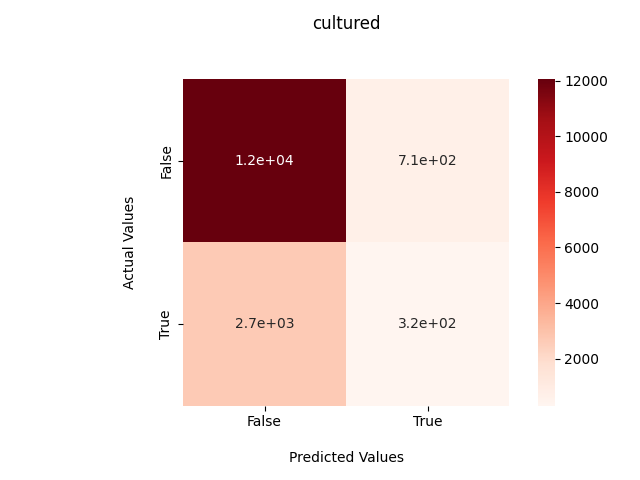
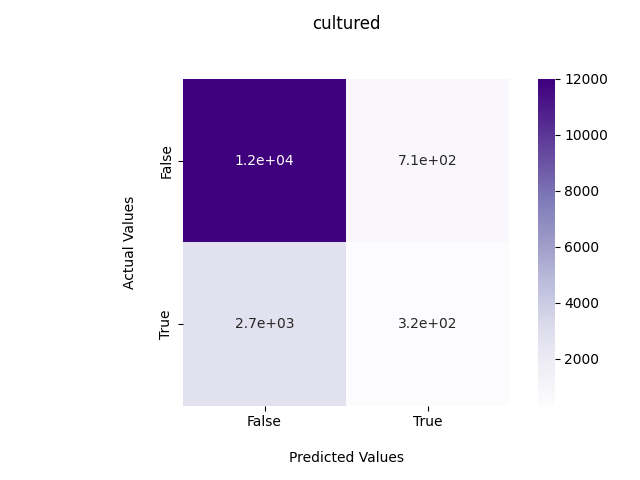
fixing plots

Changed region(s): [[0.2812, 0.1562, 0.5625, 0.8438], [0.8438, 0.1562, 0.9688, 0.8125]]

diff --git a/scripts/plot.py b/scripts/plot.py
@@ -35,15 +35,19 @@ def plot_confusion_matrix(cf_matrix, title, filename, color):
 #plot_confusion_matrix([[13000,0],[3000,0]], 'cultured', 'images/confusion-matrix/GEM/Lasso/cultured_CM-nometa.png', 'Reds')
 #plot_confusion_matrix([[31,1],[3,3]], 'NP', 'images/confusion-matrix/TARA/Lasso/NP_CM.png', 'Reds')
 
-plot_confusion_matrix([[4,5],[6,4]], 'Drought Tolerance', 'images/RF/confusion-matrix/Rhizo/tSNE/drought_tolerance_CM.png', 'Purples')
-plot_confusion_matrix([[2,7],[3,7]], 'Drought Tolerance', 'images/RF/confusion-matrix/Rhizo/tSNE/drought_tolerance_CM-nometa.png', 'Purples')
+# plot_confusion_matrix([[4,5],[6,4]], 'Drought Tolerance', 'images/RF/confusion-matrix/Rhizo/tSNE/drought_tolerance_CM.png', 'Purples')
+# plot_confusion_matrix([[2,7],[3,7]], 'Drought Tolerance', 'images/RF/confusion-matrix/Rhizo/tSNE/drought_tolerance_CM-nometa.png', 'Purples')
+#
+# plot_confusion_matrix([[14,18],[13,12]], 'AO', 'images/RF/confusion-matrix/TARA/tSNE/AO_CM.png', 'Purples')
+# plot_confusion_matrix([[23,18],[11,17]], 'IO', 'images/RF/confusion-matrix/TARA/tSNE/IO_CM.png', 'Purples')
+# plot_confusion_matrix([[28,8],[25,13]], 'MS', 'images/RF/confusion-matrix/TARA/tSNE/MS_CM.png', 'Purples')
+# plot_confusion_matrix([[20,17],[16,11]], 'NAT', 'images/RF/confusion-matrix/TARA/tSNE/NAT_CM.png', 'Purples')
+# plot_confusion_matrix([[27,9],[24,6]], 'NP', 'images/RF/confusion-matrix/TARA/tSNE/NP_CM.png', 'Purples')
+# plot_confusion_matrix([[30,7],[31,5]], 'RS', 'images/RF/confusion-matrix/TARA/tSNE/RS_CM.png', 'Purples')
+# plot_confusion_matrix([[28,8],[19,11]], 'SAT', 'images/RF/confusion-matrix/TARA/tSNE/SAT_CM.png', 'Purples')
+# plot_confusion_matrix([[30,7],[29,7]], 'SO', 'images/RF/confusion-matrix/TARA/tSNE/SO_CM.png', 'Purples')
+# plot_confusion_matrix([[16,5],[22,14]], 'SP', 'images/RF/confusion-matrix/TARA/tSNE/SP_CM.png', 'Purples')
 
-plot_confusion_matrix([[14,18],[13,12]], 'AO', 'images/RF/confusion-matrix/TARA/tSNE/AO_CM.png', 'Purples')
-plot_confusion_matrix([[23,18],[11,17]], 'IO', 'images/RF/confusion-matrix/TARA/tSNE/IO_CM.png', 'Purples')
-plot_confusion_matrix([[28,8],[25,13]], 'MS', 'images/RF/confusion-matrix/TARA/tSNE/MS_CM.png', 'Purples')
-plot_confusion_matrix([[20,17],[16,11]], 'NAT', 'images/RF/confusion-matrix/TARA/tSNE/NAT_CM.png', 'Purples')
-plot_confusion_matrix([[27,9],[24,6]], 'NP', 'images/RF/confusion-matrix/TARA/tSNE/NP_CM.png', 'Purples')
-plot_confusion_matrix([[30,7],[31,5]], 'RS', 'images/RF/confusion-matrix/TARA/tSNE/RS_CM.png', 'Purples')
-plot_confusion_matrix([[28,8],[19,11]], 'SAT', 'images/RF/confusion-matrix/TARA/tSNE/SAT_CM.png', 'Purples')
-plot_confusion_matrix([[30,7],[29,7]], 'SO', 'images/RF/confusion-matrix/TARA/tSNE/SO_CM.png', 'Purples')
-plot_confusion_matrix([[16,5],[22,14]], 'SP', 'images/RF/confusion-matrix/TARA/tSNE/SP_CM.png', 'Purples')
+plot_confusion_matrix([[9, 0],[10,0]], 'drought_tolerance', 'images/SVM/confusion-matrix/Rhizo/tSNE/drought_tolerance_CM.png', 'Purples')
+plot_confusion_matrix([[1.2e+04, 7.1e+02],[2.7e+03,3.2e+02]], 'cultured', 'images/RF/confusion-matrix/GEM/tSNE/cultured_CM.png', 'Purples')
+plot_confusion_matrix([[1.2e+04, 8.7e+02],[2.6e+03,3.4e+02]], 'cultured', 'images/RF/confusion-matrix/GEM/tSNE/cultured_CM-nometa.png', 'Purples')
